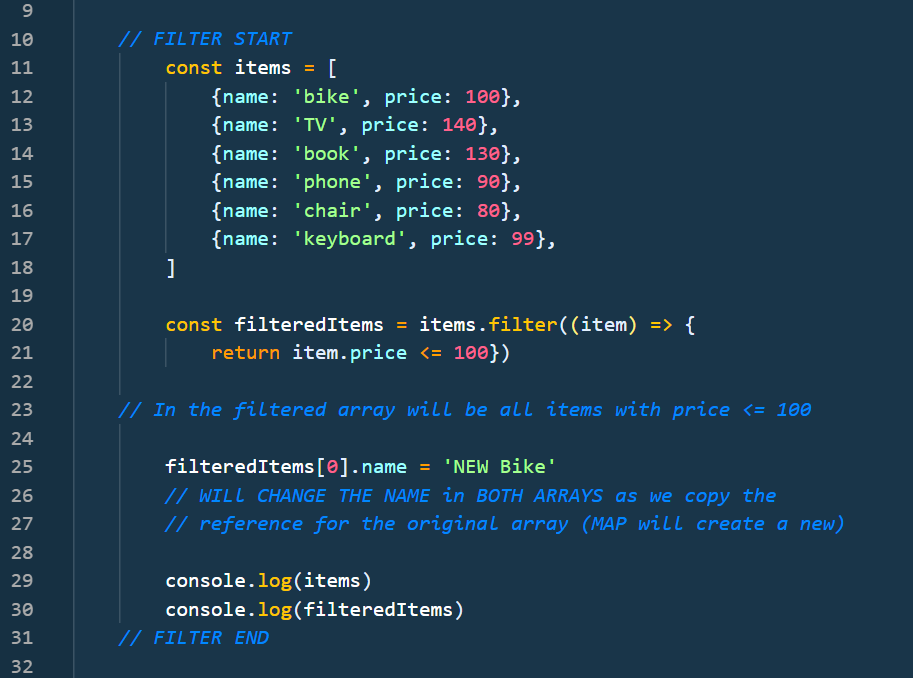
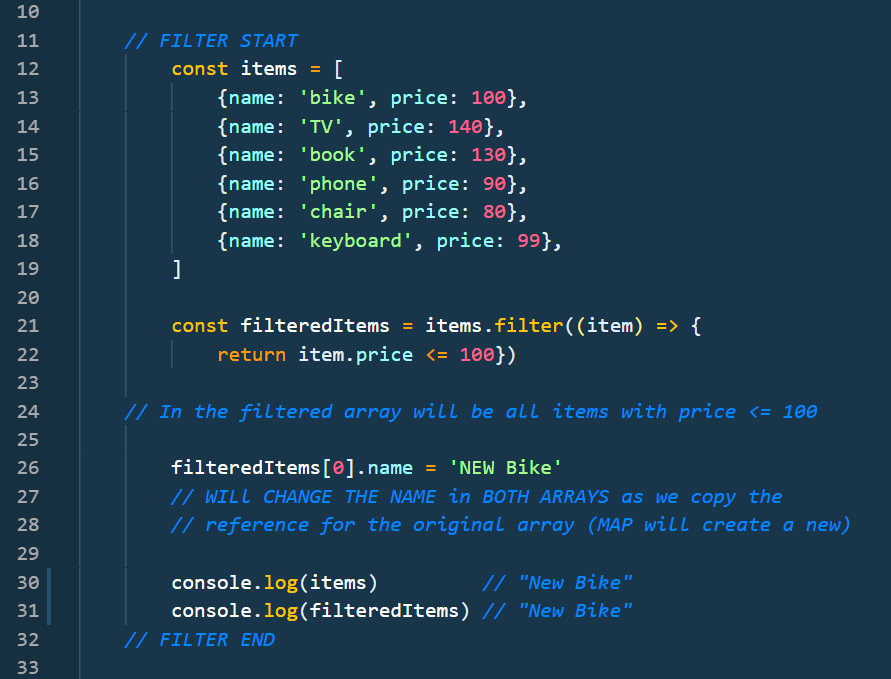
update JS array functions page

diff --git a/learning-hub/src/Components/Pages/JS/ArrayFunctions/ArrayFunctions.tsx b/learning-hub/src/Components/Pages/JS/ArrayFunctions/ArrayFunctions.tsx
@@ -4,6 +4,13 @@ import { ImageComponent } from '../../../ImageComponent/ImageComponent'
 import stylingClasses from './../../../../CSS/Styles.module.css'
 import filterImage from './Filter.png'
 import mapImage from './Map.png'
+import findImage from './Find.png'
+import forEachImage from './forEach.png'
+import someImage from './Some.png'
+import everyImage from './Every.png'
+import reduceImage from './Reduce.png'
+import includesImage from './Includes.png'
+import { Link } from 'react-scroll';
 
 export const ArrayFunctions = () => {
 
@@ -27,8 +34,8 @@ export const ArrayFunctions = () => {
         // WILl CHANGE THE NAME in BOTH ARRAYS as we copy the 
         // reference for the original array (MAP will create a new)  
 
-        console.log(items)
-        console.log(filteredItems)
+        console.log(items)         // "New Bike"
+        console.log(filteredItems) // "New Bike"
     // FILTER END
 
 //========================================================================================================//
@@ -52,9 +59,148 @@ export const ArrayFunctions = () => {
         
         mappedItems[0] = 'NEW BIKE' // change the only in the mappedArray
 
-        console.log(items2)
-        console.log(mappedItems)
+        console.log(items2)      // "bike"
+        console.log(mappedItems) // "NEW BIKE"
     // MAP END
+
+
+//========================================================================================================//
+
+    // Find START
+        const items3 = [
+            {name: 'bike', price: 100},
+            {name: 'TV', price: 140},
+            {name: 'book', price: 130},
+            {name: 'phone', price: 90},
+            {name: 'chair', price: 80},
+            {name: 'keyboard', price: 99},
+        ]
+
+        const findItem = items3.find((item) => {
+            
+            return item.name === 'bike'}) // If nothing Found - Error will Thrown
+        
+        // It's stops iterating as soon as it finds the fist match element        
+        // And pass the Reference...
+
+        findItem!.name = 'NEW BIKE' // change the item in the both "locations"
+
+        console.log(items3)   // "NEW BIKE"
+        console.log(findItem) // "NEW BIKE"
+    // Find END
+
+
+//========================================================================================================//
+
+    // forEach START
+        const items4 = [
+            {name: 'bike', price: 100},
+            {name: 'TV', price: 140},
+            {name: 'book', price: 130},
+            {name: 'phone', price: 90},
+            {name: 'chair', price: 80},
+            {name: 'keyboard', price: 99},
+        ]
+
+        items4.forEach((item) => {
+            
+            console.log(item)  // Print out all items
+
+            // Or we can modify the original item
+        }) 
+        
+    // forEach END
+
+
+//========================================================================================================//
+
+
+    // some START
+        const items5 = [
+            {name: 'bike', price: 100},
+            {name: 'TV', price: 140},
+            {name: 'book', price: 130},
+            {name: 'phone', price: 90},
+            {name: 'chair', price: 80},
+            {name: 'keyboard', price: 99},
+        ]
+
+        // will be true or false
+        const hasInexpensiveItems = items5.some((item) => {
+            
+            return item.price <= 100  
+            // if anything in the array with price <= 100 it returns TRUE
+            // otherwise FALSE
+        })
+        
+        console.log(hasInexpensiveItems)  // Prints TRUE
+
+    // some END
+
+
+//========================================================================================================//
+
+
+        // Every START
+        const items6 = [
+            {name: 'bike', price: 100},
+            {name: 'TV', price: 140},
+            {name: 'book', price: 130},
+            {name: 'phone', price: 90},
+            {name: 'chair', price: 80},
+            {name: 'keyboard', price: 99},
+        ]
+
+        // will be true or false
+        const allInexpensiveItems = items6.every((item) => {
+            
+            return item.price <= 100  
+            // if all element in the array with price <= 100 it returns TRUE
+            // otherwise FALSE
+        })
+        
+        console.log(allInexpensiveItems)  // Prints FALSE
+
+    // Every END
+
+
+//========================================================================================================//
+
+
+        // Reduce START
+        const items7 = [
+            {name: 'bike', price: 100},
+            {name: 'TV', price: 140},
+            {name: 'book', price: 130},
+            {name: 'phone', price: 90},
+            {name: 'chair', price: 80},
+            {name: 'keyboard', price: 99},
+        ]
+
+        // will be true or false
+        const totalPrice = items7.reduce((acc, item) => {
+            
+            return  acc + item.price // adding up to acc
+
+        }, 0) // 0 - its a starting point for adding up
+        
+        console.log(totalPrice)  // Prints 639 that sum up all prices
+
+    // Reduce END
+
+
+//========================================================================================================//
+
+
+        // Includes START
+        const items8 = [1, 3, 5, 7, 8, 9, 2]
+
+        // will be true or false
+        const includesTwo = items8.includes(2)
+        
+        console.log(includesTwo)  // Prints true as we have 2 in the array, otherwise false
+
+    // Includes END
 
 
 //========================================================================================================//
@@ -70,24 +216,100 @@ export const ArrayFunctions = () => {
             {/* Paragraph Start */}
             <div className={stylingClasses.paragraph}>
                 
-                <p>
-                <b>Filter</b> - not modifying the original object and pass the <b>reference</b> to the new array so (they will be the same object and can be modified from either array)
-                <br/>
-                <b>Map</b>- can modify the original object and pass to a new array Value not the Reference
-                <br/>
-                <b>Sort</b>
-                <br/>
-                <b>Reduce</b>
-                <br/>
-                </p>
+                <ul>
+                    <li><b><Link 
+                        activeClass="active"
+                        to="filter"
+                        spy={true}
+                        smooth={true}
+                        offset={0}
+                        duration={500}
+                        >Filter</Link></b> - not modifying the original object and pass the <b>reference</b> to the new array so (they will be the same object and can be modified from either array)</li>
+                    <li><b><Link 
+                        activeClass="active"
+                        to="map"
+                        spy={true}
+                        smooth={true}
+                        offset={0}
+                        duration={500}
+                        >Map</Link></b>- can modify the original object and pass to a new array Value not the Reference</li>
+                    <li><b><Link 
+                        activeClass="active"
+                        to="find"
+                        spy={true}
+                        smooth={true}
+                        offset={0}
+                        duration={500}
+                        >Find</Link></b>- return(reference to the object) as soon as find first match. Will Throw the Error if nothing found </li>
+                    <li><b><Link 
+                        activeClass="active"
+                        to="forEach"
+                        spy={true}
+                        smooth={true}
+                        offset={0}
+                        duration={500}
+                        >forEach</Link></b>- going through all elements in the array (we can modify the element)</li>
+                    <li><b><Link 
+                        activeClass="active"
+                        to="some"
+                        spy={true}
+                        smooth={true}
+                        offset={0}
+                        duration={500}
+                        >Some</Link></b>- return TRUE or FALSE for the entire array. If at lease one element match the criteria it returns TRUE</li>
+                    <li><b><Link 
+                        activeClass="active"
+                        to="every"
+                        spy={true}
+                        smooth={true}
+                        offset={0}
+                        duration={500}
+                        >Every</Link></b>- return TRUE or FALSE for the entire array. iF ALL elements match the criteria it returns TRUE otherwise FALSE</li>
+                    <li><b><Link 
+                        activeClass="active"
+                        to="reduce"
+                        spy={true}
+                        smooth={true}
+                        offset={0}
+                        duration={500}
+                        >Reduce</Link></b>- adding up all to accumulator and return at the end</li>
+                    <li><b><Link 
+                        activeClass="active"
+                        to="includes"
+                        spy={true}
+                        smooth={true}
+                        offset={0}
+                        duration={500}
+                        >Includes</Link></b>- return True if elements exist in the array, otherwise returns false</li>
+
+                </ul>
+                
                 
             </div>  {/* Paragraph End */}
 
-            <h4>Filter EXAMPLE</h4>
+            <h4 id="filter">Filter EXAMPLE</h4>
             <ImageComponent image={filterImage} size='medium'/>
 
-            <h4>Map EXAMPLE</h4>
+            <h4 id="map">Map EXAMPLE</h4>
             <ImageComponent image={mapImage} size='medium'/>
+
+            <h4 id="find">Find EXAMPLE</h4>
+            <ImageComponent image={findImage} size='medium'/>
+
+            <h4 id="forEach">forEach EXAMPLE</h4>
+            <ImageComponent image={forEachImage} size='medium'/>
+
+            <h4 id="some">Some EXAMPLE</h4>
+            <ImageComponent image={someImage} size='medium'/>
+
+            <h4 id="every">Every EXAMPLE</h4>
+            <ImageComponent image={everyImage} size='medium'/>
+
+            <h4 id="reduce">Reduce EXAMPLE</h4>
+            <ImageComponent image={reduceImage} size='medium'/>
+
+            <h4 id="includes">Includes EXAMPLE</h4>
+            <ImageComponent image={includesImage} size='medium'/>
 
     </div>
 }

diff --git a/learning-hub/src/Components/Pages/JS/JsNav.jsx b/learning-hub/src/Components/Pages/JS/JsNav.jsx
@@ -15,20 +15,20 @@ export const JsNav = () => {
         <div>
             <p>
             <NavLink className={(navData) => navData.isActive ? `${classes.activeLink}` : "" } to="/js/about" >
-                JavaScript About
+                About
             </NavLink>
             </p>
             
             
             <p>
             <NavLink className={(navData) => navData.isActive ? `${classes.activeLink}` : "" } to="/js/promise" >
-                JavaScript Promise
+                Promise
             </NavLink>
             </p>
 
             <p>
             <NavLink className={(navData) => navData.isActive ? `${classes.activeLink}` : "" } to="/js/asyncAwait" >
-                JavaScript Async Await
+                Async Await
             </NavLink>
             </p>
 
@@ -40,7 +40,7 @@ export const JsNav = () => {
 
             <p>
             <NavLink className={(navData) => navData.isActive ? `${classes.activeLink}` : "" } to="/js/other" >
-                JavaScript Other
+                Other
             </NavLink>
             </p>
         
